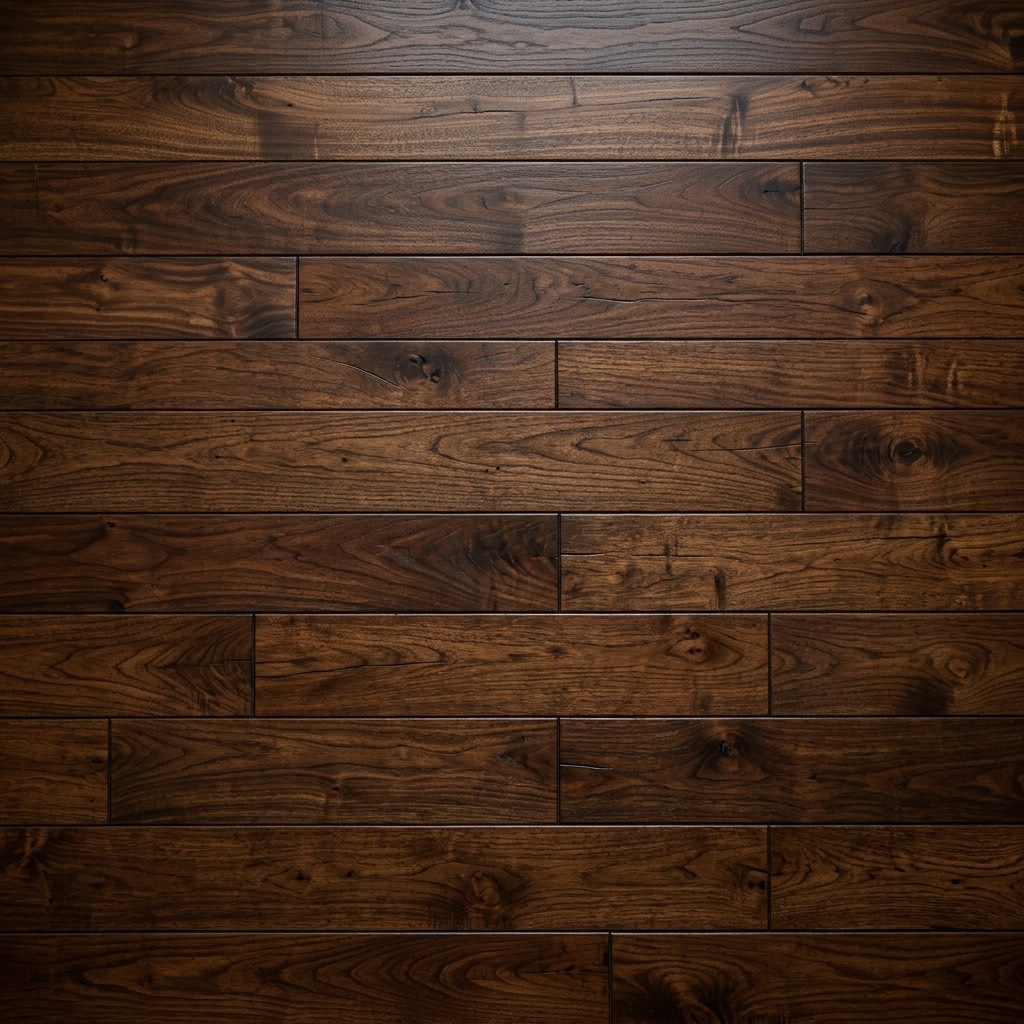
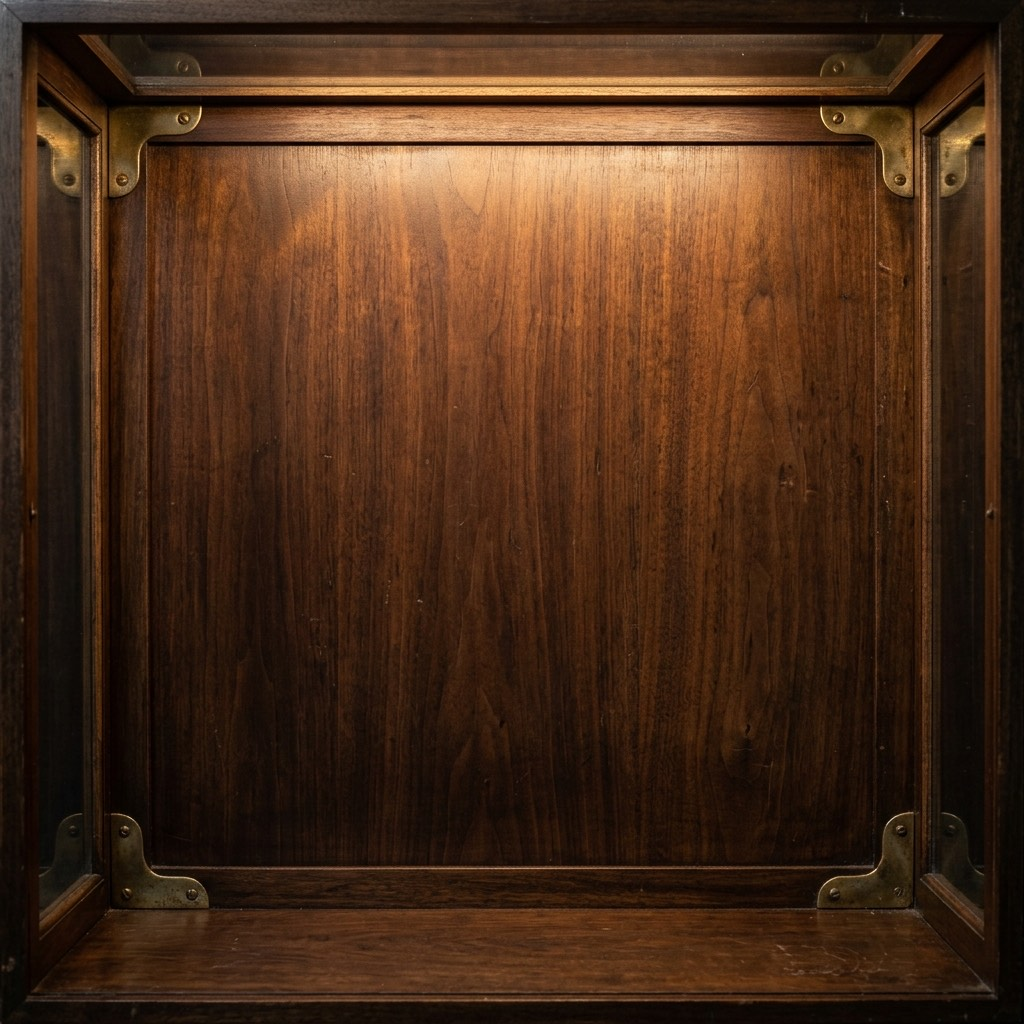
feat(theme): dark wood cubby mockup v3-4 swap

diff --git a/src/components/shared/SellerHero.tsx b/src/components/shared/SellerHero.tsx
@@ -145,8 +145,8 @@ export function SellerHero({ name, handle, bio, avatarUrl, headerStyle, bannerIm
         ) : theme === 'trax-wood' ? (
           <div className="relative h-40 md:h-52 w-full flex items-center overflow-hidden rounded-xl border border-white/10 shadow-2xl bg-black">
             {customizerNode}
-            <img src="/themes/trax-wood-header-bg.jpg" alt="Wood Display Shelf" className="absolute inset-0 w-full h-full object-cover opacity-90" />
-            <div className="absolute inset-0 shadow-[inset_0_0_40px_rgba(0,0,0,0.8)] pointer-events-none z-0" />
+            <img src="/themes/trax-wood-header-bg.jpg" alt="Wood Display Shelf" className="absolute inset-0 w-full h-full object-cover object-center" />
+            <div className="absolute inset-0 shadow-[inset_0_0_20px_rgba(0,0,0,0.5)] pointer-events-none z-0" />
             
             <div 
               ref={(el) => {
@@ -164,11 +164,15 @@ export function SellerHero({ name, handle, bio, avatarUrl, headerStyle, bannerIm
                 const listingId = card.activeListingId ?? card.draftListingId;
                 
                 const cardContent = (
-                  <div 
-                    key={customizerNode ? `${card.id}-${i}` : undefined} 
-                    className="relative flex-shrink-0 w-20 md:w-28 aspect-[5/7] rounded-lg border border-white/10 overflow-hidden shadow-xl transform transition-transform duration-500 hover:-translate-y-4 hover:scale-105 hover:z-10 cursor-pointer"
-                  >
-                    <img src={card.url} alt={card.title || "Hero Card"} className="absolute inset-0 w-full h-full object-cover" />
+                  <div key={customizerNode ? `${card.id}-${i}` : undefined} className="relative flex-shrink-0">
+                    {/* Very subtle vertical slot dividers — left only, to suggest compartments */}
+                    <div className="absolute inset-y-2 -left-px w-px bg-black/30 pointer-events-none" />
+                    {/* Subtle top inset shadow per slot */}
+                    <div className="absolute inset-x-0 top-0 h-2 bg-gradient-to-b from-black/40 to-transparent pointer-events-none z-10" />
+                    {/* The card itself — preserve all existing classes */}
+                    <div className="relative w-20 md:w-28 aspect-[5/7] rounded-lg border border-white/10 overflow-hidden shadow-xl transform transition-transform duration-500 hover:-translate-y-4 hover:scale-105 hover:z-10 cursor-pointer">
+                      <img src={card.url} alt={card.title || "Hero Card"} className="absolute inset-0 w-full h-full object-cover" />
+                    </div>
                   </div>
                 );
 
